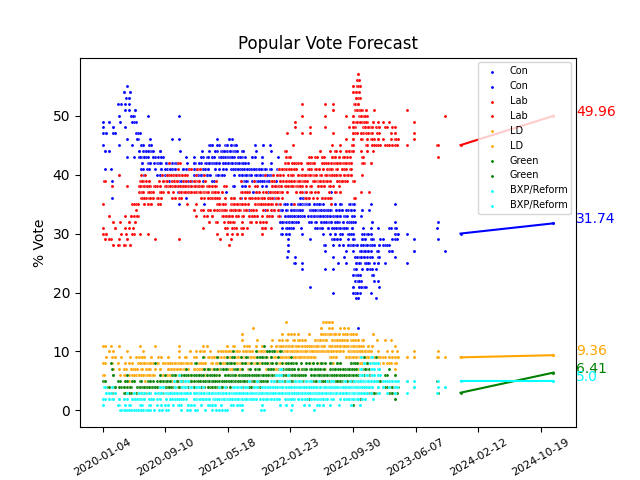
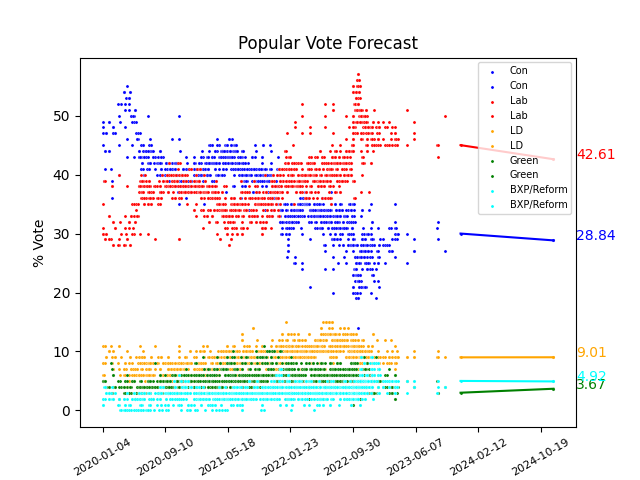
Finalised

diff --git a/model.py b/model.py
@@ -29,8 +29,8 @@ from datetime import datetime
 class Model:
 
     running = False
-    seed(64)
-    set_random_seed(1)
+    seed(100)
+    set_random_seed(256)
 
     def clean_pollbase(self):
         new_df = pd.read_csv("datasets/opinionpolls.csv") # Read excel file
@@ -189,7 +189,7 @@ class Model:
         s.to_csv('datasets/PreprocessedOpinionPolls.csv', index=False)
 
     def forecast_popular_vote(self):
-        model = RANSACRegressor(random_state=120)
+        model = RANSACRegressor(random_state=64)
         pp_df = pd.read_csv("datasets/PreprocessedOpinionPolls.csv")
         pp_df = pp_df.sort_values(by='date_ordinals')
 
@@ -208,8 +208,8 @@ class Model:
 
         for i in pp_df.columns:
             if not "date" in i:
-                x = pp_df['date_ordinals'].tail(50).values.reshape(-1, 1)
-                y = pp_df[i].tail(50).values.reshape(-1, 1)
+                x = pp_df['date_ordinals'].tail(75).values.reshape(-1, 1)
+                y = pp_df[i].tail(75).values.reshape(-1, 1)
 
                 x_train, x_test, y_train, y_test = train_test_split(x, y, test_size=0.3)
 
@@ -373,6 +373,10 @@ class Model:
 
         # evaluate model
         scores = cross_val_score(model, x_train, y_train, scoring='neg_mean_absolute_error', n_jobs=-1)
+        mean_scores = mean((absolute(scores)))
+        partys = {'Con':[], 'Lab':[], 'Lib Dem':[], 'Green':[], 'Reform':[]}
+
+        print('mean scores', mean_scores)
 
         # force scores to be positive
         return mean((absolute(scores)))
@@ -1102,6 +1106,7 @@ class Model:
             model_results[i].append(round(pred[0][0], 2))
 
         model_results = pd.DataFrame(model_results)
+        print(model_results)
 
         model_results.to_csv('datasets/2019-pop-pred.csv', index = 0)
 
@@ -1317,4 +1322,5 @@ class Model:
 
 if __name__ == "__main__":
     m = Model()
-    m.model_details()
+    m.forecast_2019_pop()
+    m.forecast_2019_seats()
